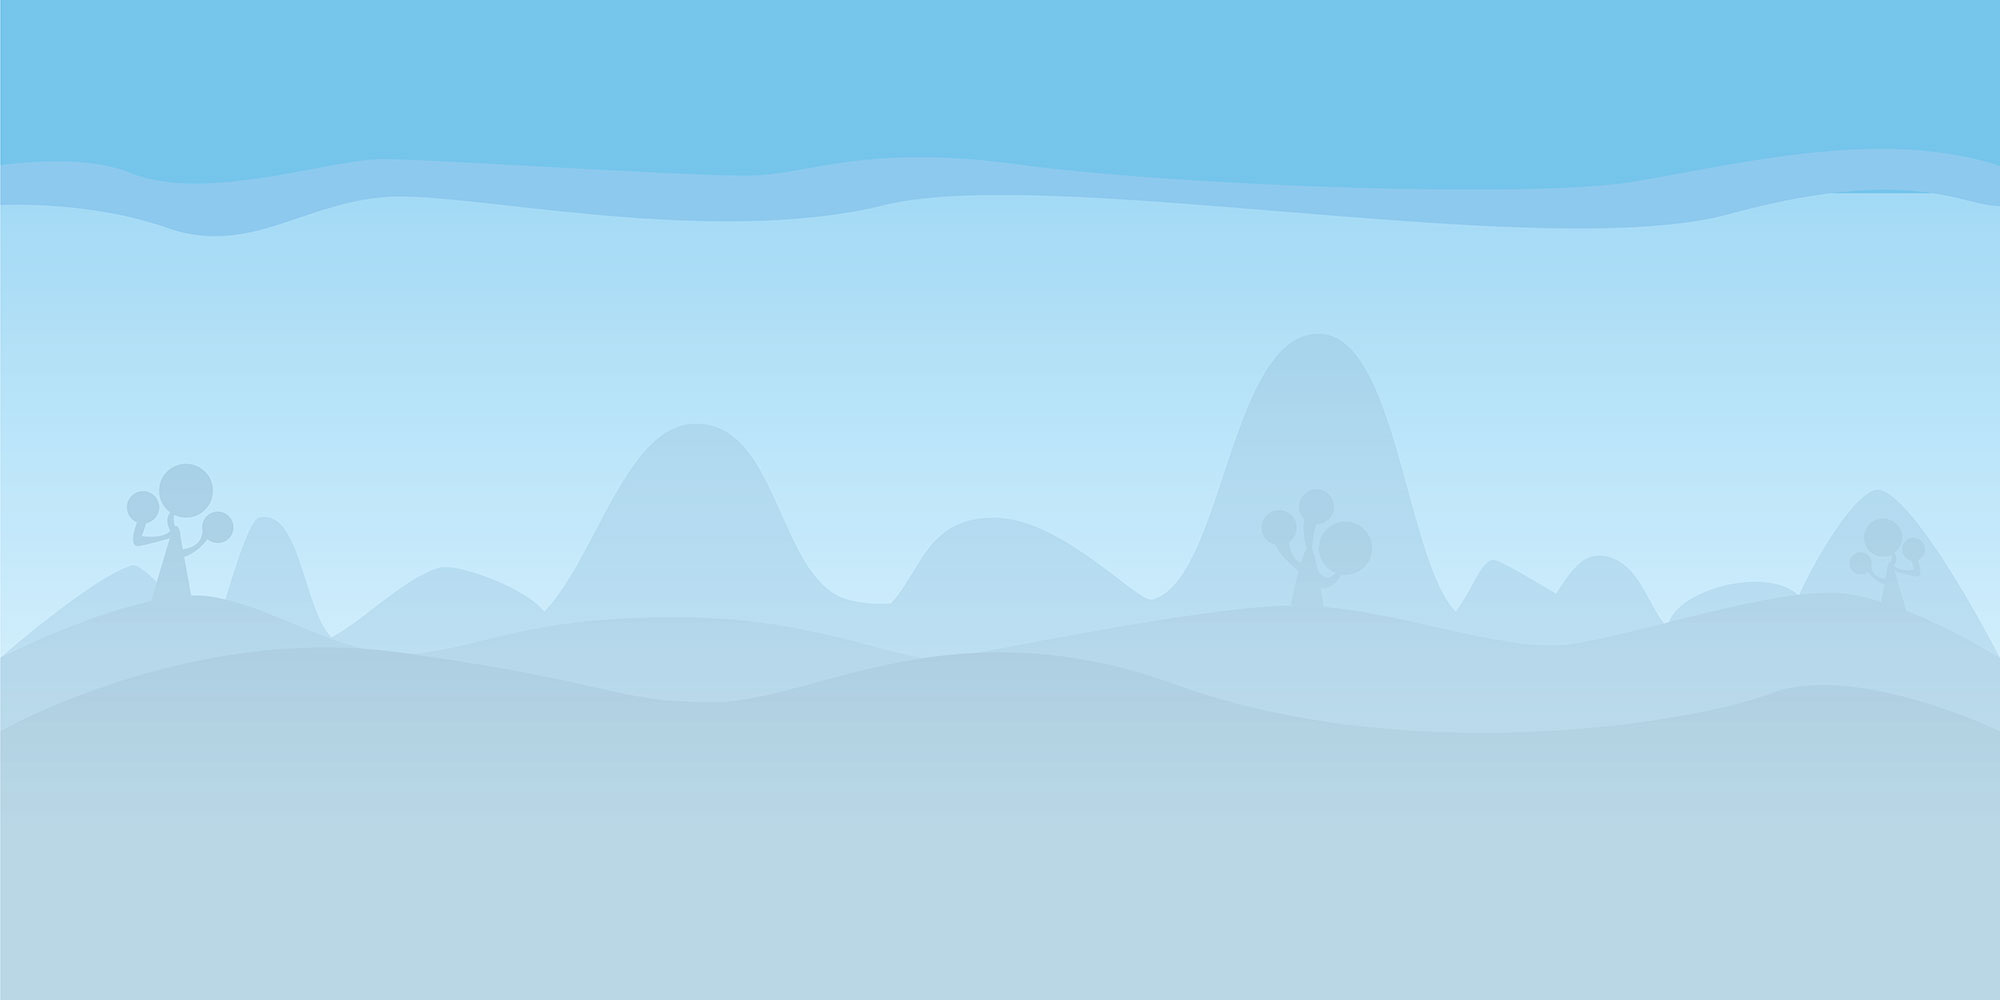
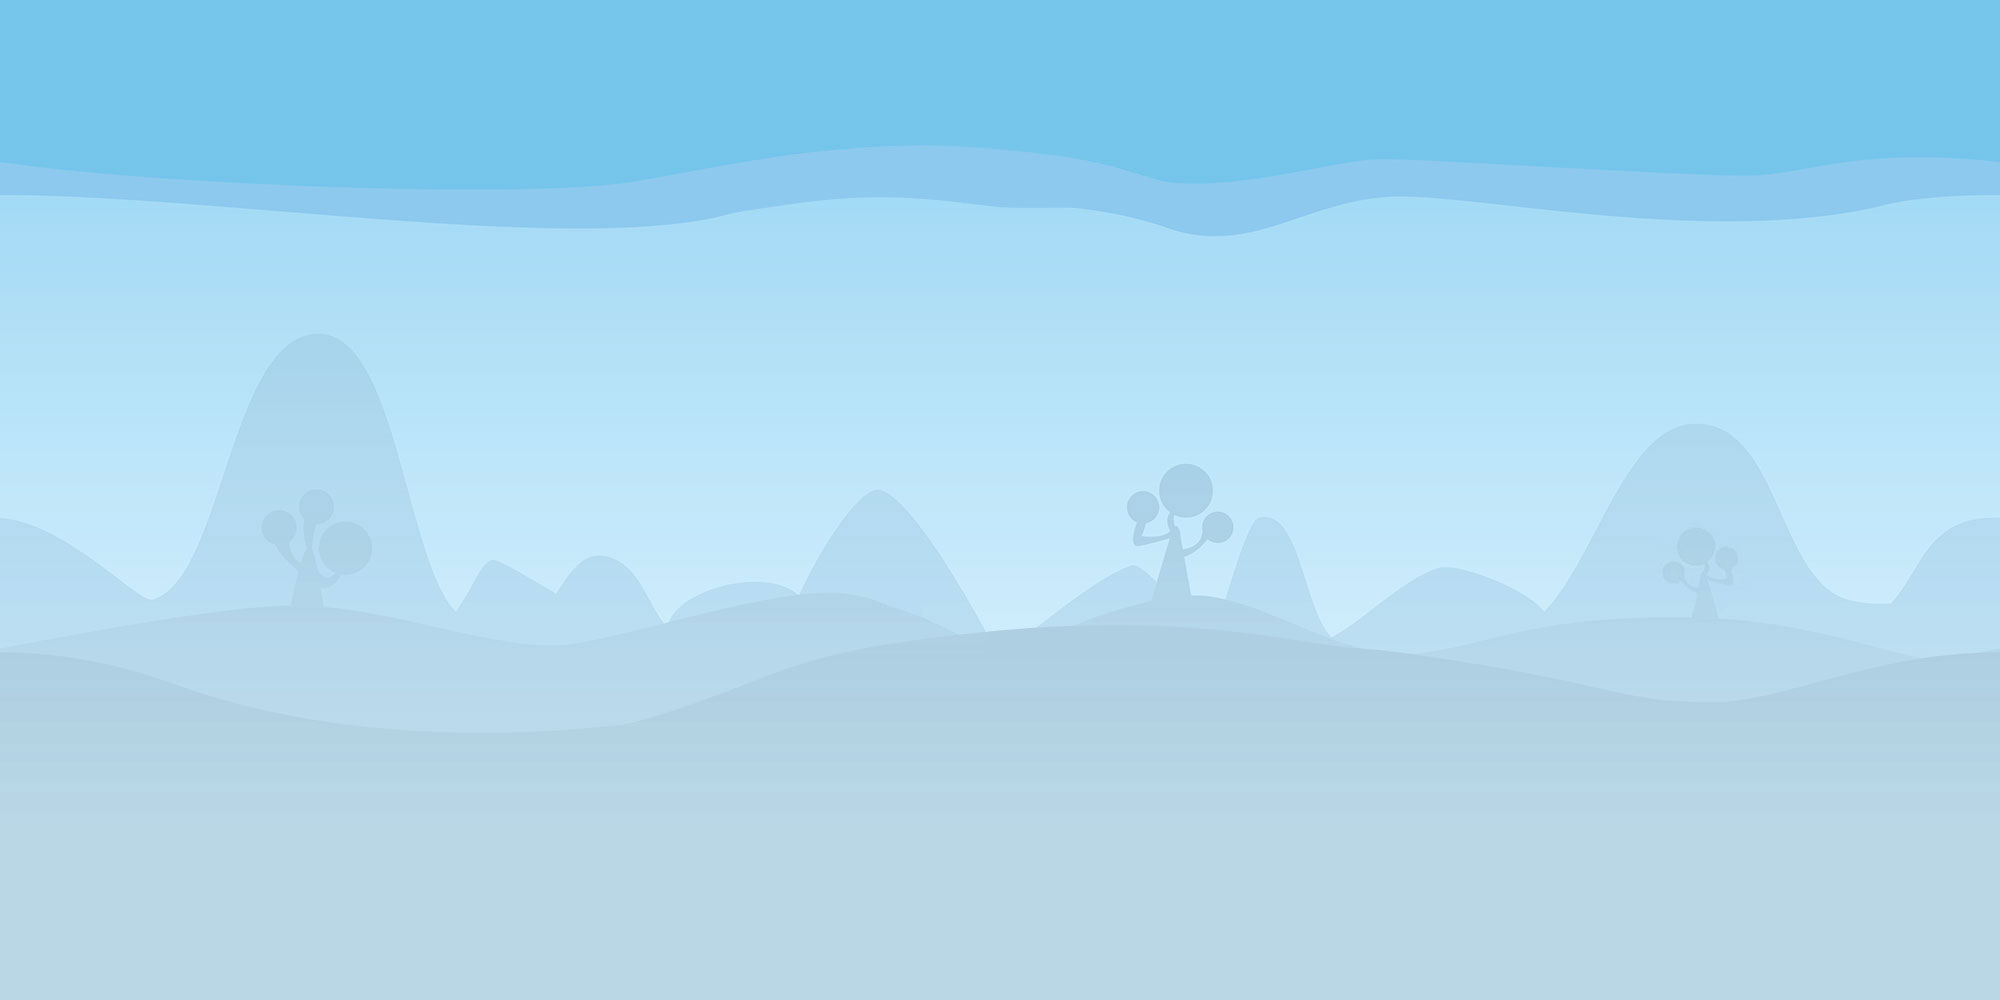
Adding cloud and background animations.

diff --git a/assets/css/style.css b/assets/css/style.css
@@ -45,14 +45,6 @@ body {
     font-family: "Lato", Arial, Helvetica, sans-serif;
 }
 
-html { 
-    background: url(../images/game-background.jpg) no-repeat center center fixed; 
-    -webkit-background-size: cover;
-    -moz-background-size: cover;
-    -o-background-size: cover;
-    background-size: cover;
-}
-
 .wrapper {
     min-height: 100%;
     height: auto;
@@ -60,10 +52,6 @@ html {
     margin: 0 auto -160px;
     /* Pad bottom by footer height (or more) */
     padding: 0 0 220px;
-}
-
-body {
-    background-color: transparent;
 }
 
 .footer {
@@ -81,15 +69,48 @@ body {
 }
 
 /*----------
+BACKGROUNDS
+----------------------------------------*/
+
+@keyframes clouds {
+    from {
+        background-position: 0 -84px;
+    }
+    to {
+        background-position: 2000px -84px;
+    }
+}
+
+@keyframes backgroundAnimation {
+    from {
+        background-position: 0 0;
+    }
+    to {
+        background-position: 2000px 0;
+    }
+}
+
+.clouds {
+    background-image: url(../images/clouds.png);
+    background-repeat: repeat-x;
+    background-position: 0 -84px;
+    animation: clouds 100s linear infinite;
+}
+
+body {
+    background-image: url(../images/game-background.jpg);
+    background-repeat: repeat-x;
+    background-position: 0 0;
+    animation: backgroundAnimation 200s linear infinite;
+}
+
+/*----------
 JUMBOTRON
 ----------------------------------------*/
 
 .jumbotron {
-    background-image: url(../images/clouds.png);
-    background-repeat: no-repeat;
-    background-position: center center;
-    background-color: transparent;
     padding-bottom: 0;
+    background-color: transparent;
 }
 
 .jumbotron h1 {

diff --git a/index.html b/index.html
@@ -16,7 +16,7 @@
 
 <body>
 
-	<div class="wrapper">
+	<div class="clouds wrapper">
 			
 		<div class="jumbotron text-center">
 			<h1>Hangman</h1>
